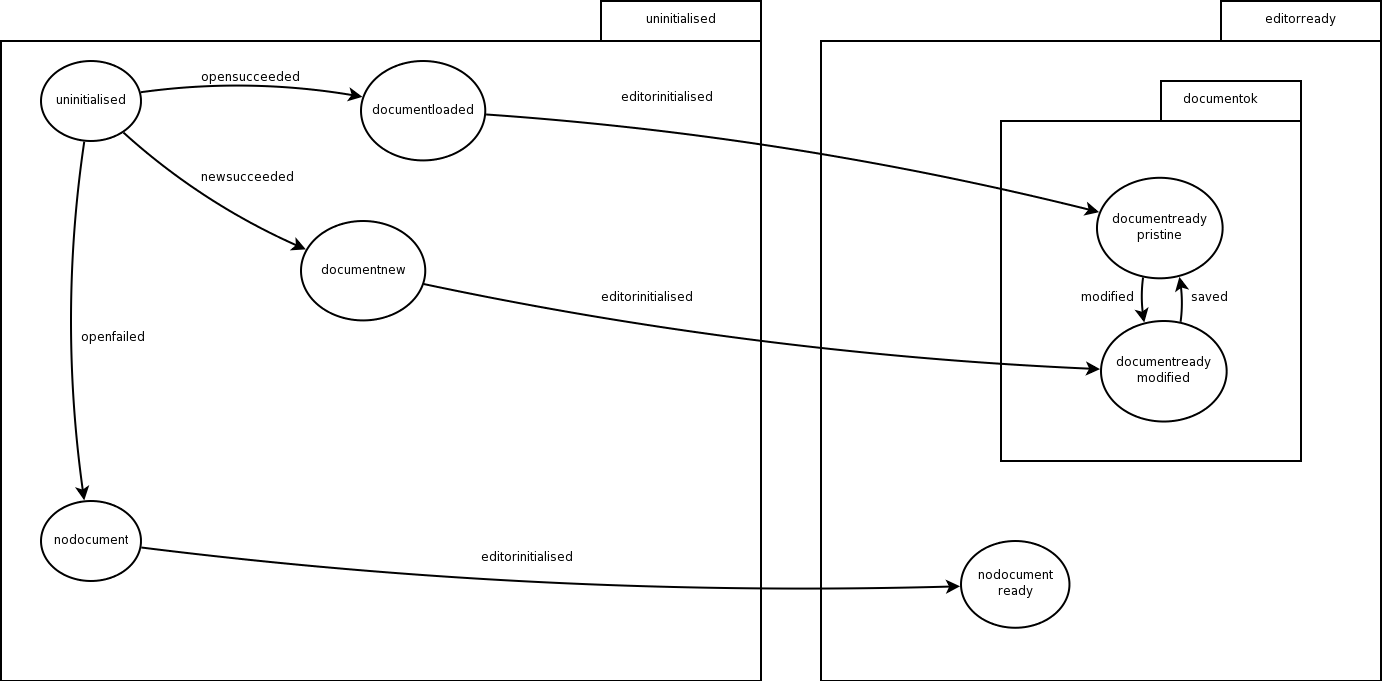
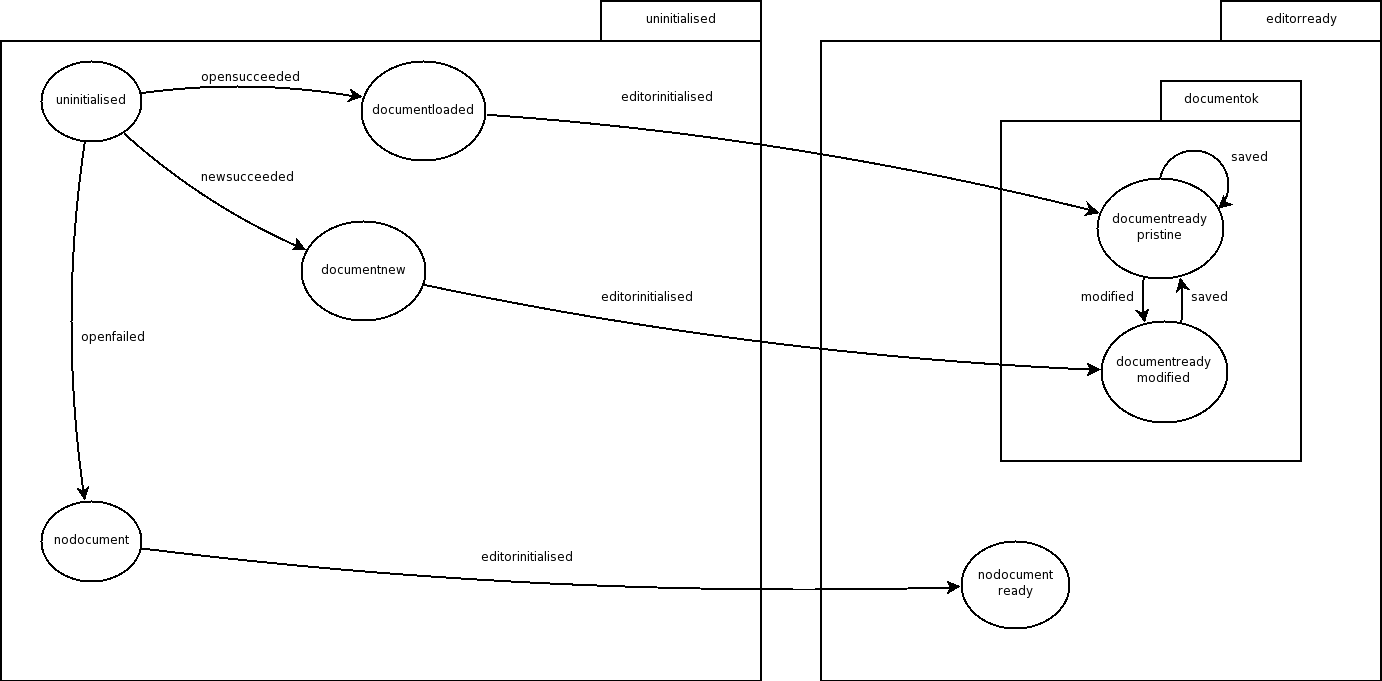
Allow state transition from state "pristine" to "pristine" in order to make "save as.." work on a non-modified document.

diff --git a/src/trunk/yulup/prototypes/prototype1/src/chrome/content/controller.js b/src/trunk/yulup/prototypes/prototype1/src/chrome/content/controller.js
@@ -709,7 +709,8 @@ YulupEditStateController.prototype = {
                 }
                 break;
             case "saved":
-                if (this.currentState == this.STATE_DOCUMENTREADY_MODIFIED) {
+                if (this.currentState == this.STATE_DOCUMENTREADY_MODIFIED ||
+                    this.currentState == this.STATE_DOCUMENTREADY_PRISTINE) {
                     this.currentState = this.STATE_DOCUMENTREADY_PRISTINE;
                     // deactivate "save" menu
                     document.getElementById("uiFileOperationSave").setAttribute("disabled", true);
